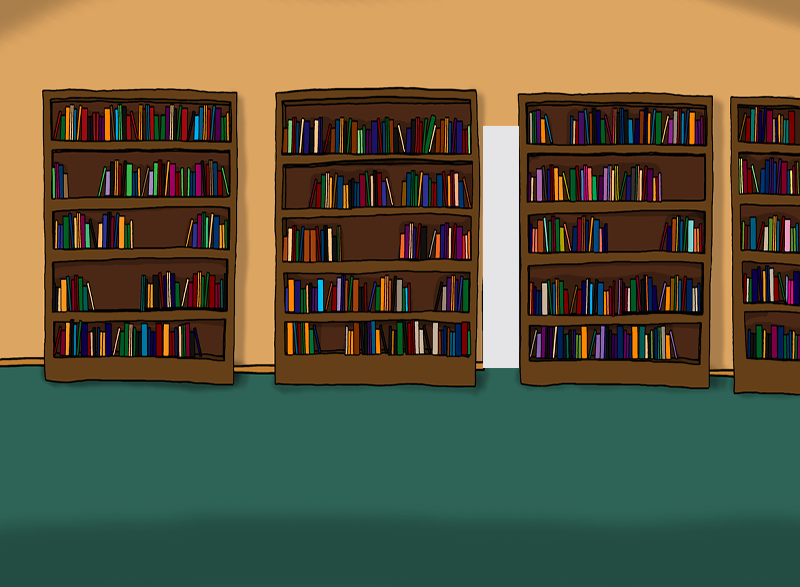
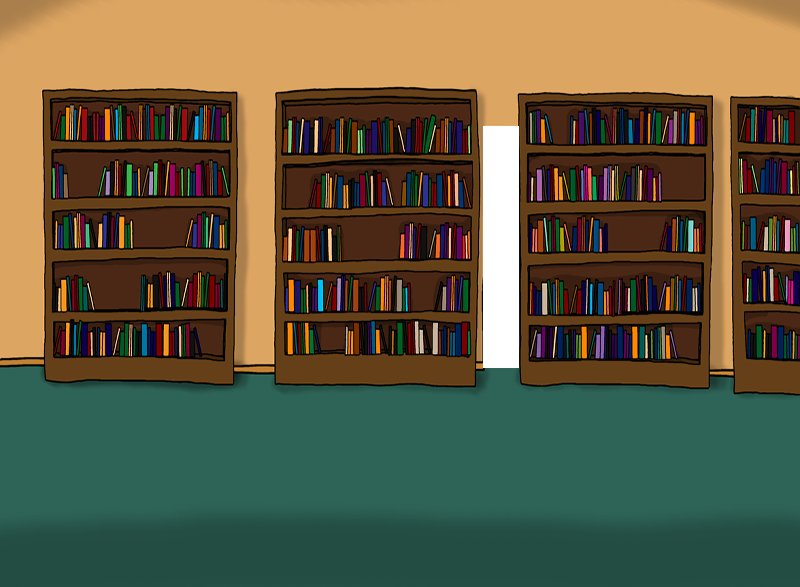
Removed unused js&css, fixed library bg image

Changed region(s): [[0.5938, 0.2147, 0.6562, 0.644]]

diff --git a/html5gerri.html b/html5gerri.html
@@ -4,26 +4,6 @@
     <title>Gerri</title>
     <!--[if IE]><script type="text/javascript" src="excanvas.js"></script><![endif]-->
       <link href="style.css" rel="stylesheet" type="text/css">
-
-      <link href="http://ajax.googleapis.com/ajax/libs/jqueryui/1.8.24/themes/base/jquery-ui.css" rel="stylesheet" type="text/css" />
-      <script src="http://code.jquery.com/jquery-1.5.2.min.js"></script>
-      <script src="http://ajax.googleapis.com/ajax/libs/jquery/1.8.2/jquery.min.js"></script>
-      <script src="http://ajax.googleapis.com/ajax/libs/jqueryui/1.8.24/jquery-ui.min.js"></script>
-      <script type="text/javascript" src="js/phaser.min.js"></script>
-      <!-- bjqs.css contains the *essential* css needed for the slider to work -->
-      <link rel="stylesheet" href="bjqs.css">
-
-      <!-- some pretty fonts for this demo page - not required for the slider -->
-      <link href='http://fonts.googleapis.com/css?family=Source+Code+Pro|Open+Sans:300' rel='stylesheet' type='text/css'>
-
-      <!-- demo.css contains additional styles used to set up this demo page - not required for the slider -->
-      <link rel="stylesheet" href="demo.css">
-
-      <!-- load jQuery and the plugin -->
-      <script src="js/bjqs-1.3.min.js"></script>
-
-
-
   </head>
   <body>
       <div id="debug" style="position: absolute;">
@@ -44,7 +24,7 @@
                       <embed height="50" width="100" src="music/intro.mp3">
                   </audio>-->
               <div id="canvasDiv" class="clickable">
-                  <div id = "dark">
+                  <div id="dark">
                       <img src="assets/clickable_dark_place.jpg" title=""/>
                   </div>
                   <div id = "books">
@@ -179,7 +159,7 @@
           </div>
       </div>
 
-
+      <script src="http://ajax.googleapis.com/ajax/libs/jquery/1.11.0/jquery.min.js"></script>
   <script type="text/javascript" src="html5-canvas-game-character-2.js"></script>
   <script type="text/javascript">
             prepareCanvas(document.getElementById("canvasDiv"), 140, 185);

diff --git a/html5-canvas-game-character-2.js b/html5-canvas-game-character-2.js
@@ -37,7 +37,7 @@ var fpsInterval = setInterval(updateFPS, 1000);
 var numFramesDrawn = 0;
 var curFPS = 0;
 var jumping = false;
-var currentMap = 'library_first';
+var currentMap;
 
 
 function updateFPS() {
@@ -45,6 +45,8 @@ function updateFPS() {
 	numFramesDrawn = 0;
 }
 function prepareCanvas(canvasDiv, canvasWidth, canvasHeight) {
+    // Adjust jQuery animation interval to ease CPU usage (jQuery default is 13 ms)
+    jQuery.fx.interval = 25;
 	// Create the canvas (Neccessary for IE because it doesn't know what a canvas element is)
 	canvas = document.createElement('canvas');
 	canvas.setAttribute('width', canvasWidth);
@@ -68,6 +70,7 @@ function prepareCanvas(canvasDiv, canvasWidth, canvasHeight) {
 	loadImage("leftArm-jump");
 	loadImage("legs-jump");
 	loadImage("rightArm-jump");
+    showMap('library_first');
 }
 
 function loadImage(name) {

diff --git a/style.css b/style.css
@@ -4,8 +4,7 @@ body {
 }
 
 #map{
-    /*background: transparent url(images/secret_room.jpg) repeat-x scroll 0 0;*/
-    background: transparent url(images/library_first.png) repeat-x scroll 0 0;
+    background: transparent url('assets/library_first.png') repeat-x scroll 0 0;
     margin-left: auto;
     margin-right: auto;
     width: 800px;
